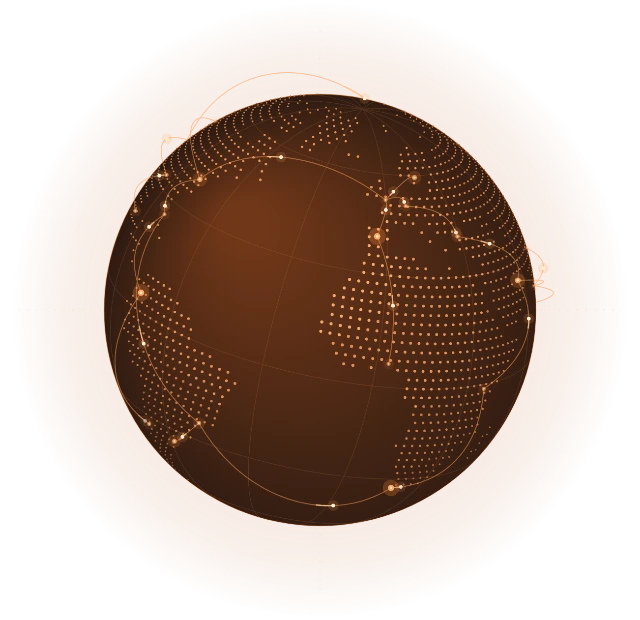
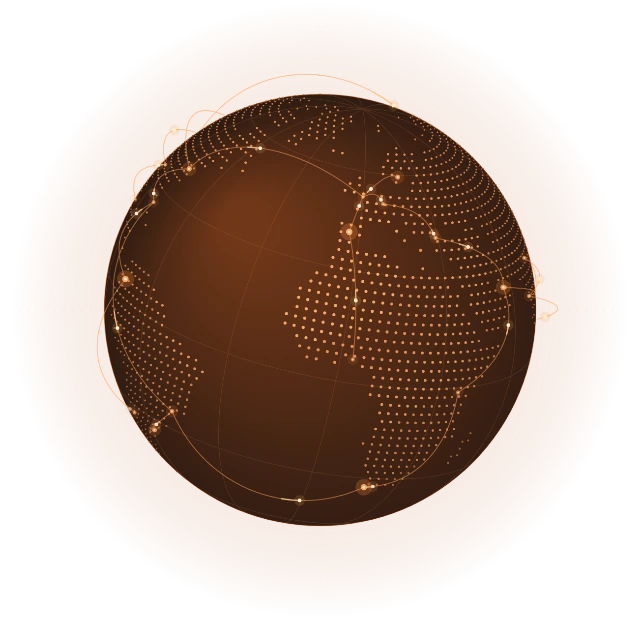
Stabilize globe first paint and remove manual pause controls

diff --git a/js/main.js b/js/main.js
@@ -9,7 +9,7 @@ const COPY = {
     title: "把世界，", titleAccent: "连接得更简单。",
     description: "全平台支持的第三方 Cloudflare WARP 客户端。",
     allPlatforms: "查看所有平台", devices: "在你的设备上，随时出发",
-    visualGlobal: "世界，就在眼前", visualCaption: "数据中心与连线示意", explore: "向下探索",
+    visualGlobal: "世界，就在眼前", explore: "向下探索",
     factFreeUnit: " / 订阅", factFree: "免费使用，简单直接", factPlatformsUnit: " 大平台",
     factWeeklyTitle: "每周更新", factWeekly: "持续发现可用节点", factNetwork: "依托全球边缘网络",
     featuresTitle: "好用的连接，不必很复杂。", featuresIntro: "把精力留给你在意的事，剩下的，交给简单好用的工具。",
@@ -31,7 +31,6 @@ const COPY = {
     faqQuestion2: "为什么连接速度或可用性会变化？", faqAnswer2: "节点状态会受本地网络、线路拥堵、节点负载和地理位置影响。共享账户资源也有限额，详情可查看帮助中心。",
     faqQuestion3: "在哪里查看隐私和开源信息？", faqAnswer3: "下载中心提供 Android 与 iOS 客户端的隐私政策和开源许可证入口；页脚可查看网站自身的政策条款。",
     closingTitle: "下一次探索，从这里开始。", closingIntro: "选择你的设备，让世界离你更近一点。", closingButton: "获取 TrashVPN",
-    pauseMotion: "暂停动画", resumeMotion: "继续动画",
     download: "免费下载", downloadFor: "下载 {platform} 版",
   },
   en: {
@@ -40,7 +39,7 @@ const COPY = {
     title: "More world.", titleAccent: "Less complexity.",
     description: "A third-party Cloudflare WARP client for all major platforms.",
     allPlatforms: "All platforms", devices: "Your device. Your next discovery.",
-    visualGlobal: "A world within reach", visualCaption: "Illustration of data centers and routes", explore: "Discover more",
+    visualGlobal: "A world within reach", explore: "Discover more",
     factFreeUnit: " / subscription", factFree: "Free, plain and simple", factPlatformsUnit: " platforms",
     factWeeklyTitle: "Weekly refresh", factWeekly: "Discover available nodes", factNetwork: "Built on a global edge network",
     featuresTitle: "Good connections. Less complication.", featuresIntro: "Save your attention for what matters. Keep your tools simple.",
@@ -62,7 +61,6 @@ const COPY = {
     faqQuestion2: "Why can speed or availability change?", faqAnswer2: "Local networks, route congestion, node load and location can affect your connection. Shared accounts also have quotas. See the help center for details.",
     faqQuestion3: "Where are the privacy and open-source notices?", faqAnswer3: "The download center links to Android and iOS privacy policies and open-source licenses. Website policies are linked in the footer.",
     closingTitle: "Your next discovery starts here.", closingIntro: "Choose your device. Bring the world a little closer.", closingButton: "Get TrashVPN",
-    pauseMotion: "Pause animation", resumeMotion: "Resume animation",
     download: "Download free", downloadFor: "Get it for {platform}",
   },
   fa: {
@@ -71,7 +69,7 @@ const COPY = {
     title: "دنیایی گستردهتر،", titleAccent: "ارتباطی سادهتر.",
     description: "یک کلاینت شخص ثالث Cloudflare WARP برای همه پلتفرمهای اصلی.",
     allPlatforms: "همه پلتفرمها", devices: "روی دستگاه شما، آماده کشف",
-    visualGlobal: "جهان در دسترس شما", visualCaption: "نمای مفهومی مراکز داده و مسیرها", explore: "بیشتر بدانید",
+    visualGlobal: "جهان در دسترس شما", explore: "بیشتر بدانید",
     factFreeUnit: " / اشتراک", factFree: "رایگان و ساده", factPlatformsUnit: " پلتفرم",
     factWeeklyTitle: "بهروزرسانی هفتگی", factWeekly: "کشف نودهای در دسترس", factNetwork: "بر پایه شبکه لبه جهانی",
     featuresTitle: "اتصال خوب، بدون پیچیدگی.", featuresIntro: "توجه خود را برای چیزهای مهم نگه دارید و ابزارهای ساده انتخاب کنید.",
@@ -93,7 +91,6 @@ const COPY = {
     faqQuestion2: "چرا سرعت یا دسترسپذیری تغییر میکند؟", faqAnswer2: "شبکه محلی، شلوغی مسیر، بار نود و موقعیت روی اتصال اثر دارند. حسابهای مشترک هم سهمیه دارند. برای جزئیات، مرکز راهنما را ببینید.",
     faqQuestion3: "اطلاعیههای حریم خصوصی و متنباز کجاست؟", faqAnswer3: "مرکز دانلود به سیاستهای حریم خصوصی و مجوزهای متنباز Android و iOS پیوند دارد. سیاستهای وبسایت در پاورقی هستند.",
     closingTitle: "کشف بعدی شما از اینجا شروع میشود.", closingIntro: "دستگاه خود را انتخاب کنید و جهان را کمی نزدیکتر بیاورید.", closingButton: "دریافت TrashVPN",
-    pauseMotion: "توقف پویانمایی", resumeMotion: "ادامه پویانمایی",
     download: "دانلود رایگان", downloadFor: "دریافت برای {platform}",
   },
 };
@@ -141,5 +138,5 @@ document.addEventListener("DOMContentLoaded", () => {
     if (typeof value === "string") element.textContent = value;
   });
   initDownloadButton(copy);
-  initNetworkGlobe({ pause: copy.pauseMotion, resume: copy.resumeMotion });
+  initNetworkGlobe();
 });

diff --git a/css/styles.css b/css/styles.css
@@ -103,8 +103,6 @@ h3 { letter-spacing: -.025em; }
 .network-visual { position: relative; direction: ltr; width: 108%; margin-inline-start: -4%; aspect-ratio: 640 / 620; }
 .network-globe { position: absolute; inset: 0; display: block; width: 100%; height: 100%; }
 .network-label { position: absolute; display: flex; gap: 11px; align-items: center; background: #442e1dc9; border: 1px solid #d3bca932; box-shadow: 0 16px 40px #00000022; backdrop-filter: blur(12px); border-radius: 10px; padding: 13px 16px; }
-.network-label--top { inset-block-start: 20%; inset-inline-start: 2%; }
-.network-label--bottom { inset-block-start: 72%; inset-inline-end: -1%; }
 .network-visual[data-orbiting] { isolation: isolate; }
 .network-visual[data-orbiting] .network-globe { z-index: 1; pointer-events: none; }
 .network-visual[data-orbiting] [data-globe-card] {
@@ -121,15 +119,9 @@ h3 { letter-spacing: -.025em; }
 .network-signal i { width: 3px; background: #f0d5bf; border-radius: 1px; }
 .network-signal i:nth-child(1) { height: 5px; }.network-signal i:nth-child(2) { height: 9px; }.network-signal i:nth-child(3) { height: 13px; }.network-signal i:nth-child(4) { height: 17px; }
 
-.network-caption { flex-wrap: wrap; color: #c0a58e; font-size: 11px; letter-spacing: .03em; display: flex; gap: 10px; justify-content: center; align-items: center; margin-block: -15px 15px; position: relative; }
-.caption-line { width: 20px; height: 1px; background: #95806e; }
 .hero-bottom { border-top: 1px solid #c8bcb21a; padding-block: 18px; display: flex; align-items: center; justify-content: space-between; color: #9b8b7e; font-size: 9px; letter-spacing: .13em; }
 .hero-bottom a { display: flex; gap: 14px; letter-spacing: .05em; }
 .hero-bottom a:hover { color: #f8e2d0; }
-
-/* The pause control stays outside the decorative canvas. */
-.globe-toggle { min-height: 26px; color: #f7c29c; background: #ffffff08; border: 1px solid #b17c5688; border-radius: 6px; padding: 3px 9px; font-size: 11px; line-height: 1.5; }
-.globe-toggle:hover { color: #ffe2c8; border-color: #ffc59988; }
 
 /* At-a-glance product facts */
 .product-facts { background: #ffffff; border-bottom: 1px solid #efebe8; }
@@ -370,10 +362,8 @@ html[dir="rtl"] .hero-bottom { letter-spacing: 0; }
   .hero-devices { gap: 12px; font-size: 9px; }.hero-devices > span { padding-inline-start: 12px; }
   .network-visual { width: 119%; margin-inline-start: -7%; }
   .hero-network .network-visual[data-orbiting] { width: calc(100% - 36px); margin-inline: auto; }
-  .network-label--top { top: 15%; left: 4%; }.network-label--bottom { top: 77%; right: 5%; }
   .network-label__icon { width: 27px; height: 27px; }.network-label { gap: 7px; padding: 9px 10px; }
   .network-label__eyebrow { font-size: 6px; }.network-signal { display: none; }
-  .network-caption { margin-top: 10px; }
   .facts-grid { grid-template-columns: repeat(2, 1fr); padding-block: 10px; }
   .product-fact { margin-block: 16px; padding-inline: 25px; }.product-fact:nth-child(3) { border: 0; padding-inline-start: 0; }
   .section { padding-block: 72px; }.section-heading { gap: 25px; }.section-heading h2 { font-size: 30px; }
@@ -406,9 +396,8 @@ html[dir="rtl"] .hero-bottom { letter-spacing: 0; }
   .hero__actions { gap: 23px; margin-bottom: 28px; }.hero__actions .primary-button { min-height: 50px; font-size: 13px; padding-inline: 20px; }.hero-secondary { font-size: 12px; }
   .hero-devices { gap: 15px; }.hero-devices > span { font-size: 9px; padding-inline-start: 15px; }
   .hero-network { margin-block: -8px 0; }.network-visual { width: min(100%, 440px); margin-inline: auto; }
-  .network-label--top { top: 21%; left: 0; }.network-label--bottom { top: 73%; right: 0; }
   .network-label strong { font-size: 10px; }.network-label { padding: 10px 12px; }.network-label__eyebrow { font-size: 7px; }
-  .network-caption { margin-block: -5px 12px; }.hero-bottom { padding-block: 15px; font-size: 7px; }
+  .hero-bottom { padding-block: 15px; font-size: 7px; }
   .facts-grid { padding-block: 12px; }.product-fact { padding-inline: 18px 0; margin-block: 14px; }
   .product-fact > strong { font-size: 22px; }.product-fact > span { font-size: 10px; }.product-fact .fact-cloud { font-size: 20px; gap: 7px; }.fact-cloud .icon { width: 24px; height: 24px; }
   .product-fact strong > span { font-size: 10px; }

diff --git a/js/globe.js b/js/globe.js
@@ -8,7 +8,7 @@ const RADIUS = 216;
 const FULL_TURN = Math.PI * 2;
 const TO_RADIANS = Math.PI / 180;
 const ROTATION_MS = 48000;
-const INITIAL_LONGITUDE = -18;
+const INITIAL_LONGITUDE = -8;
 const VIEW_LATITUDE = 18 * TO_RADIANS;
 const VIEW_TILT = -12 * TO_RADIANS;
 const VIEW_SIN = Math.sin(VIEW_LATITUDE);
@@ -300,12 +300,11 @@ function createRenderer(canvas, context, backdrop, backdropContext, cards) {
   };
 }
 
-export function initNetworkGlobe(labels) {
+export function initNetworkGlobe() {
   const canvas = document.querySelector("#network-globe");
   const visual = canvas?.parentElement;
   const fallback = visual?.querySelector("[data-globe-fallback]");
-  const toggle = document.querySelector("[data-globe-toggle]");
-  if (!canvas || !visual || !fallback || !toggle || !("Path2D" in window)) return;
+  if (!canvas || !visual || !fallback || !("Path2D" in window)) return;
 
   const backdrop = document.createElement("canvas");
   const context = canvas.getContext("2d");
@@ -320,7 +319,6 @@ export function initNetworkGlobe(labels) {
   const renderer = createRenderer(canvas, context, backdrop, backdropContext, cards);
   const reducedMotion = window.matchMedia("(prefers-reduced-motion: reduce)");
   let visible = !("IntersectionObserver" in window);
-  let paused = false;
   let frame = null;
   let previousTime = null;
   let elapsed = 0;
@@ -333,9 +331,7 @@ export function initNetworkGlobe(labels) {
   }
 
   function updatePlayback() {
-    toggle.hidden = reducedMotion.matches;
-    toggle.textContent = paused ? labels.resume : labels.pause;
-    const playing = visible && !paused && !reducedMotion.matches && !document.hidden;
+    const playing = !canvas.hidden && visible && !reducedMotion.matches && !document.hidden;
     if (playing && frame === null) frame = requestAnimationFrame(animate);
     if (!playing && frame !== null) {
       cancelAnimationFrame(frame);
@@ -349,12 +345,16 @@ export function initNetworkGlobe(labels) {
     if (!width || !height) return;
     renderer.resize(width, height);
     renderer.render(elapsed);
+    if (canvas.hidden) {
+      // Reveal the canvas and cards together after their first positions and layers are set.
+      canvas.hidden = false;
+      fallback.hidden = true;
+      cards.forEach(({ element }) => { element.hidden = false; });
+      updatePlayback();
+    }
   }
 
-  visual.dataset.orbiting = "";
   resize();
-  canvas.hidden = false;
-  fallback.hidden = true;
 
   if ("ResizeObserver" in window) new ResizeObserver(resize).observe(visual);
   else window.addEventListener("resize", resize);
@@ -364,11 +364,6 @@ export function initNetworkGlobe(labels) {
       updatePlayback();
     }).observe(visual);
   }
-  toggle.addEventListener("click", () => {
-    paused = !paused;
-    updatePlayback();
-  });
   reducedMotion.addEventListener("change", updatePlayback);
   document.addEventListener("visibilitychange", updatePlayback);
-  updatePlayback();
 }

diff --git a/index.html b/index.html
@@ -31,13 +31,12 @@
             </div>
           </div>
           <div class="hero-network">
-            <div class="network-visual" aria-hidden="true">
+            <div class="network-visual" data-orbiting aria-hidden="true">
               <canvas class="network-globe" id="network-globe" width="640" height="620" hidden></canvas>
               <img class="network-globe" data-globe-fallback src="assests/network-globe.webp" alt="" width="640" height="620" fetchpriority="high">
-              <div class="network-label network-label--top" data-globe-card="global"><span class="network-label__icon"><svg class="icon"><use href="assests/icons.svg#globe"></use></svg></span><div><span class="network-label__eyebrow">GLOBAL NETWORK</span><strong data-home-copy="visualGlobal">世界，就在眼前</strong></div></div>
-              <div class="network-label network-label--bottom" data-globe-card="cloudflare"><span class="network-label__icon"><svg class="icon"><use href="assests/icons.svg#cloud"></use></svg></span><div><span class="network-label__eyebrow">POWERED BY</span><strong>Cloudflare Network</strong></div><span class="network-signal"><i></i><i></i><i></i><i></i></span></div>
+              <div class="network-label" data-globe-card="global" hidden><span class="network-label__icon"><svg class="icon"><use href="assests/icons.svg#globe"></use></svg></span><div><span class="network-label__eyebrow">GLOBAL NETWORK</span><strong data-home-copy="visualGlobal">世界，就在眼前</strong></div></div>
+              <div class="network-label" data-globe-card="cloudflare" hidden><span class="network-label__icon"><svg class="icon"><use href="assests/icons.svg#cloud"></use></svg></span><div><span class="network-label__eyebrow">POWERED BY</span><strong>Cloudflare Network</strong></div><span class="network-signal"><i></i><i></i><i></i><i></i></span></div>
             </div>
-            <div class="network-caption"><span class="caption-line" aria-hidden="true"></span><span data-home-copy="visualCaption">数据中心与连线示意</span><button class="globe-toggle" data-globe-toggle type="button" aria-controls="network-globe" hidden>暂停动画</button></div>
           </div>
         </div>
         <div class="container hero-bottom"><span>LESS NOISE. MORE WORLD.</span><a href="#features"><span data-home-copy="explore">向下探索</span><span aria-hidden="true">↓</span></a></div>
